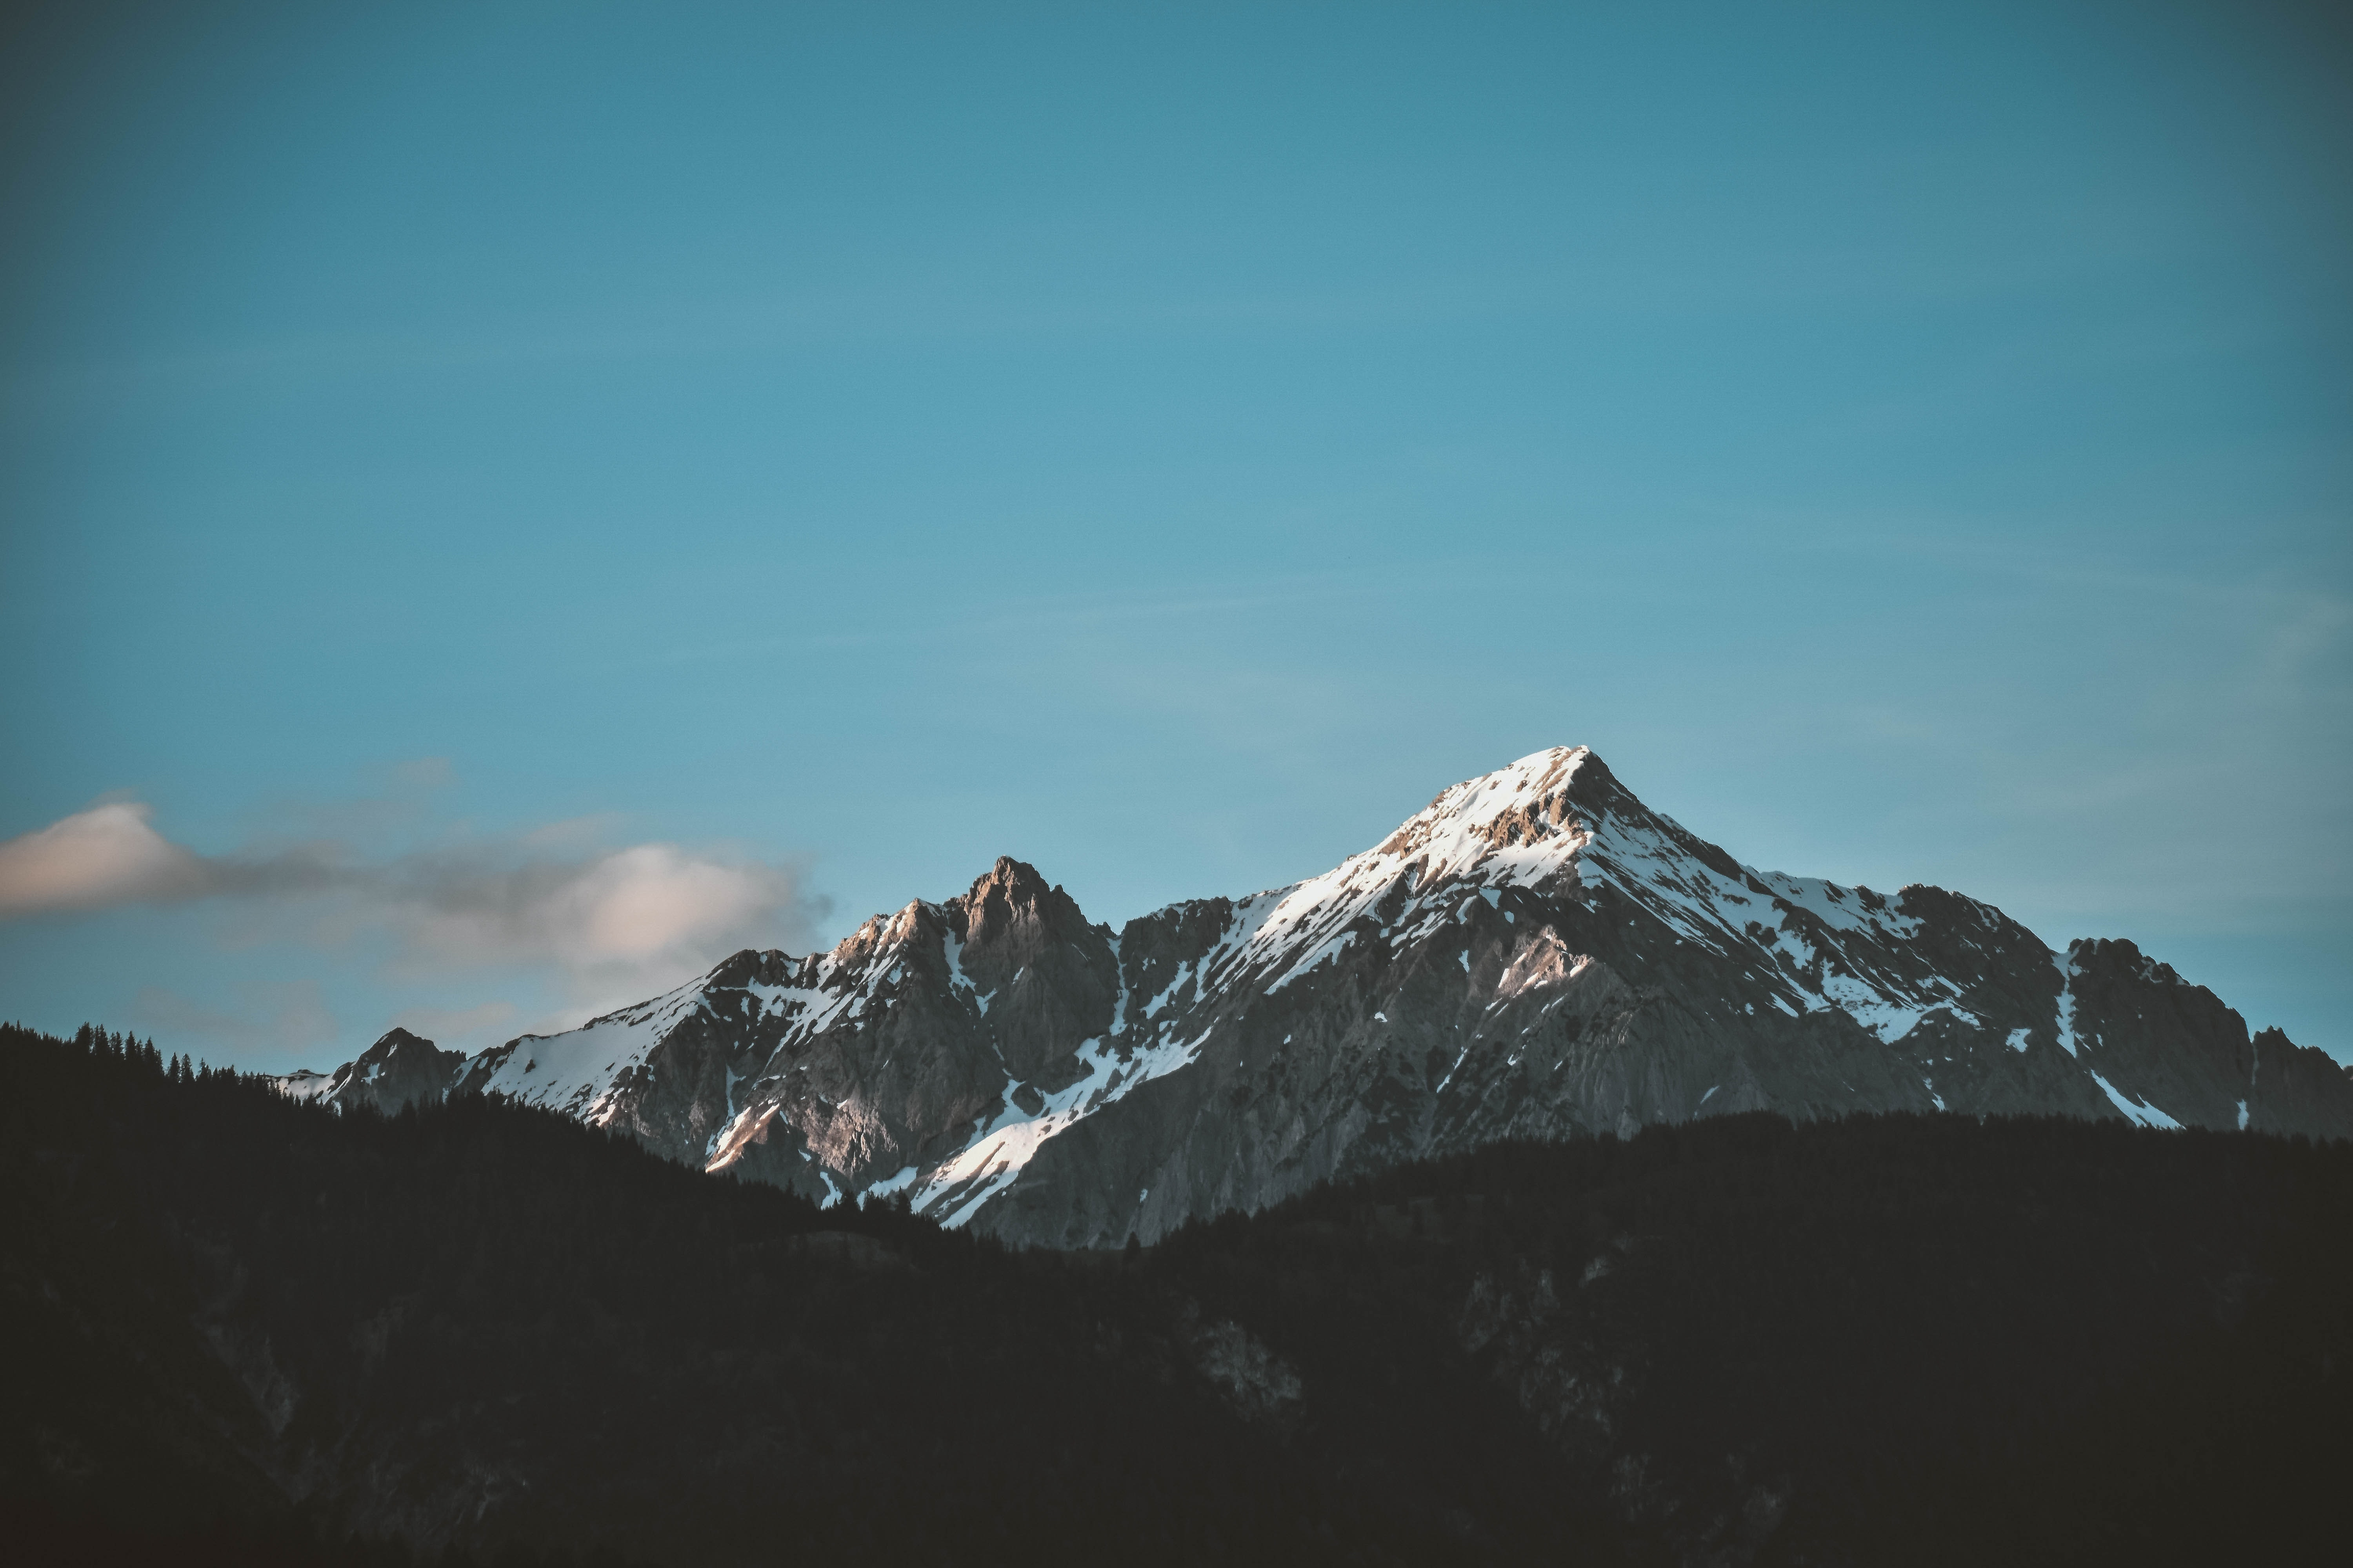
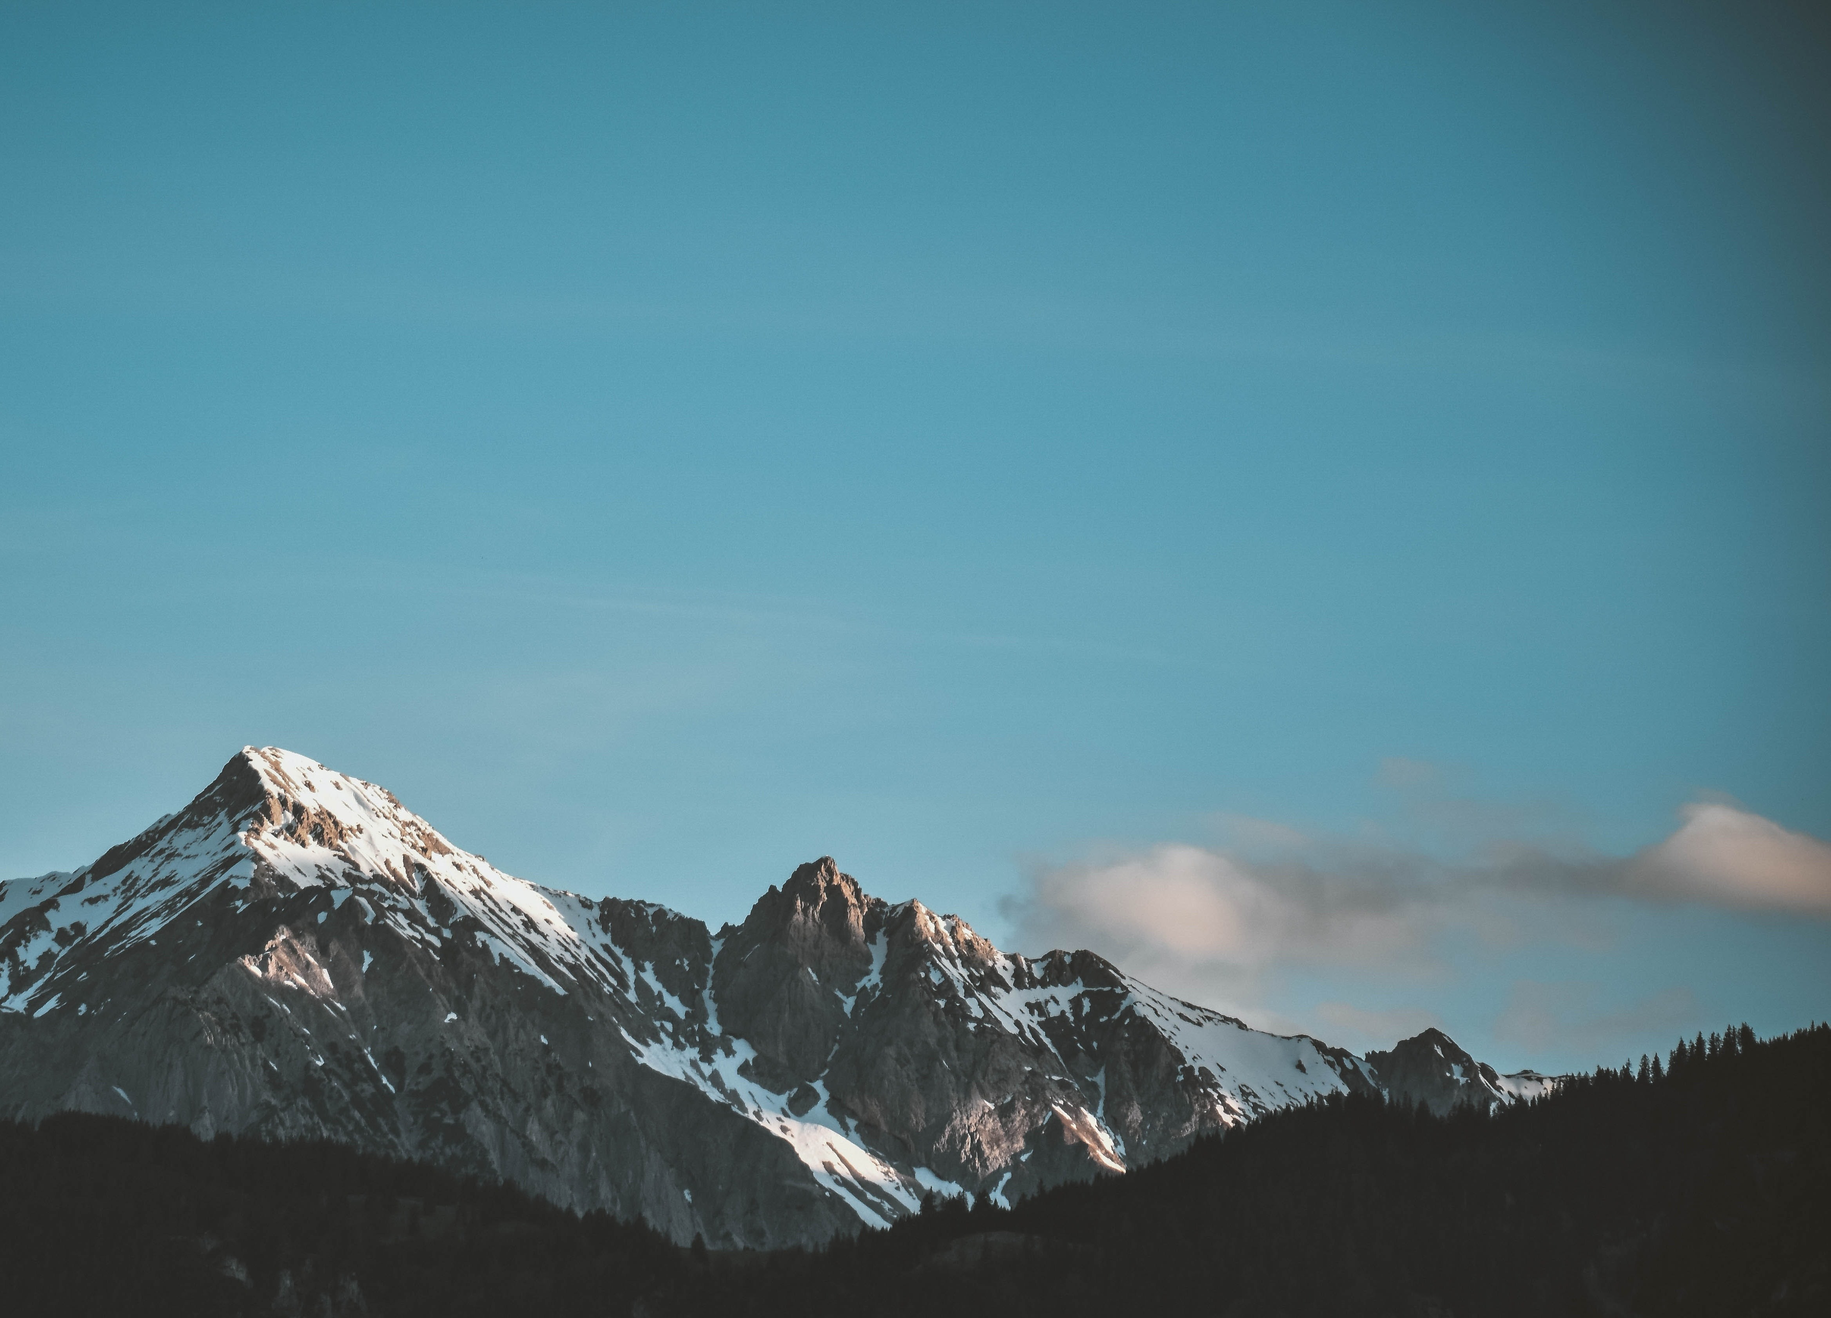
landingPage-responsive

diff --git a/src/components/LandingPage/LandingPage.jsx b/src/components/LandingPage/LandingPage.jsx
@@ -12,7 +12,15 @@ const Container = styled.div`
   justify-content: space-between;
   align-content: center;
   background-image: url(${landingPageImage});
+  background-position: center center;
+  background-repeat: no-repeat;
   background-size: cover;
+
+  @media (orientation: portrait) {
+    flex-direction: column;
+    height: fit-content;
+    text-align: center;
+  }
 `;
 
 const NavbarContainer = styled.div`
@@ -30,6 +38,11 @@ const Left = styled.div`
   justify-content: center;
   align-content: center;
   align-items: center;
+
+  @media (orientation: portrait) {
+    width: 100%;
+    order: 2;
+  }
 `;
 
 const Right = styled.div`
@@ -39,10 +52,16 @@ const Right = styled.div`
   align-content: center;
   flex-direction: column;
   padding: 75px;
+
+  @media (orientation: portrait) {
+    margin-top: 10vh;
+    order: 1;
+    width: 100%;
+  }
 `;
 
 const Title = styled.h1`
-  font-size: 100px;
+  font-size: clamp(60px, 6vw, 100px);
   font-family: "Poppins", sans-serif;
   letter-spacing: 5px;
   color: ${(props) => props.theme.colors.maintext};
@@ -52,9 +71,9 @@ const Title = styled.h1`
 const LandingPage = () => {
   return (
     <>
-      <NavbarContainer>
+      {/* <NavbarContainer>
         <Navbar />
-      </NavbarContainer>
+      </NavbarContainer> */}
 
       <Container>
         <Left>

diff --git a/src/components/Footer/Footer.jsx b/src/components/Footer/Footer.jsx
@@ -58,8 +58,8 @@ const Footer = () => {
     <>
       <FooterContainer>
         <Column>
-          <h3>Contact</h3>
           <p>Created by Karol Kącki 2023</p>
+          <h3>Contact</h3>
           <IconLink>
             <FaGithub size="2em" />{" "}
             <Link href="https://github.com/Lorak294">github.com/Lorak294</Link>

diff --git a/src/components/LandingPage/LoginSignUpComponent/Components.jsx b/src/components/LandingPage/LoginSignUpComponent/Components.jsx
@@ -10,6 +10,11 @@ export const Container = styled.div`
   height: 400px;
   max-width: 100%;
   min-width: 400px;
+  margin: 5vw;
+  /* @media (orientation: portrait) {
+    //border-radius: 0;
+    margin: 5vw;
+  } */
 `;
 
 export const SignUpContainer = styled.div`
